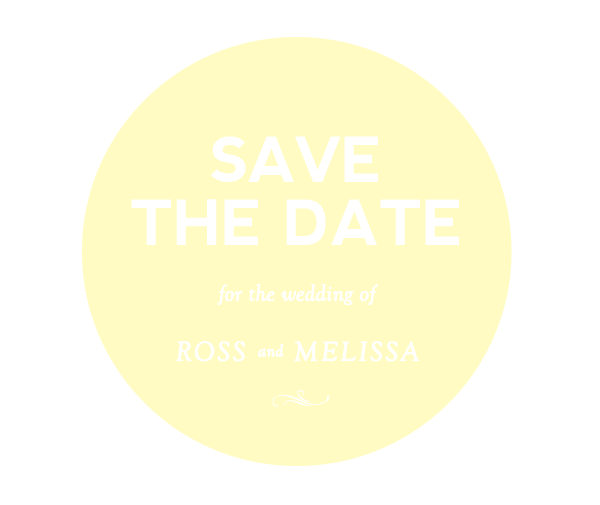
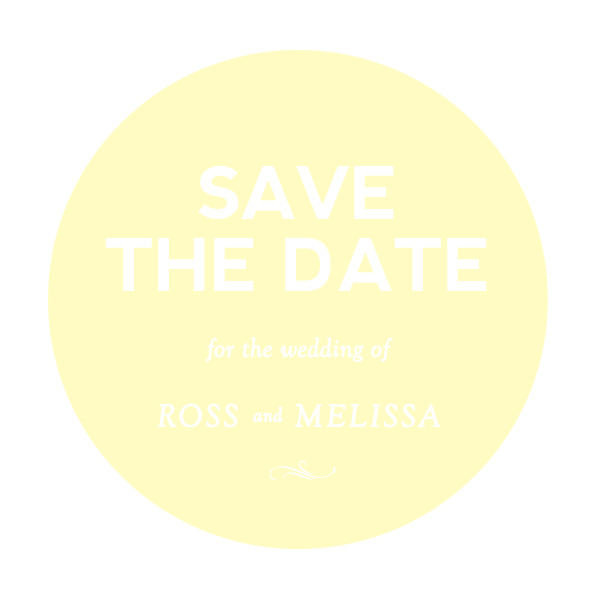
new person image

diff --git a/site/css/styles.css b/site/css/styles.css
@@ -51,7 +51,7 @@ a.google_play_button{background-image:url(../images/store_buttons.png);backgroun
 
 
 /* Header iPhones */
-.header_right .iphone_one{background-image:url(../images/save-the-date.png);background-repeat:no-repeat;height:505px;width:600px;margin-left: auto;margin-right: auto;z-index:0;display:none}
+.header_right .iphone_one{background-image:url(../images/save-the-date.png);background-repeat:no-repeat;height:600px;width:600px;margin-left: auto;margin-right: auto;z-index:0;display:none}
 
 
 
@@ -144,7 +144,7 @@ body{overflow-x:hidden}
 .top_header{padding: 30px;height:490px}
 .header_left{float: left;width: 50%;padding-top: 90px;margin-right: 0%;margin-left: 0%}
 
-.header_right .iphone_one{background-image:url(../images/save-the-date.png);background-repeat:no-repeat;height:505px;width:600px;margin-left:auto;margin-right:auto;z-index:0;display:none}
+.header_right .iphone_one{background-image:url(../images/save-the-date.png);background-repeat:no-repeat;height:600px;width:600px;margin-left:auto;margin-right:auto;z-index:0;display:none}
 
 .inner_section{width:100%;margin-right:0;margin-left:0;padding-top:50px}
 .section_one .inner_section h2{float:none;margin-left:0;font-size:28px;text-align:center;color:#595959;font-weight:200;padding-top:40px}

diff --git a/index.html b/index.html
@@ -22,6 +22,7 @@
 <link href='http://fonts.googleapis.com/css?family=Arapey:400italic' rel='stylesheet' type='text/css'>
 <link href='http://fonts.googleapis.com/css?family=Libre+Baskerville:400,700,400italic' rel='stylesheet' type='text/css'>
 
+
 </head>
 
 
